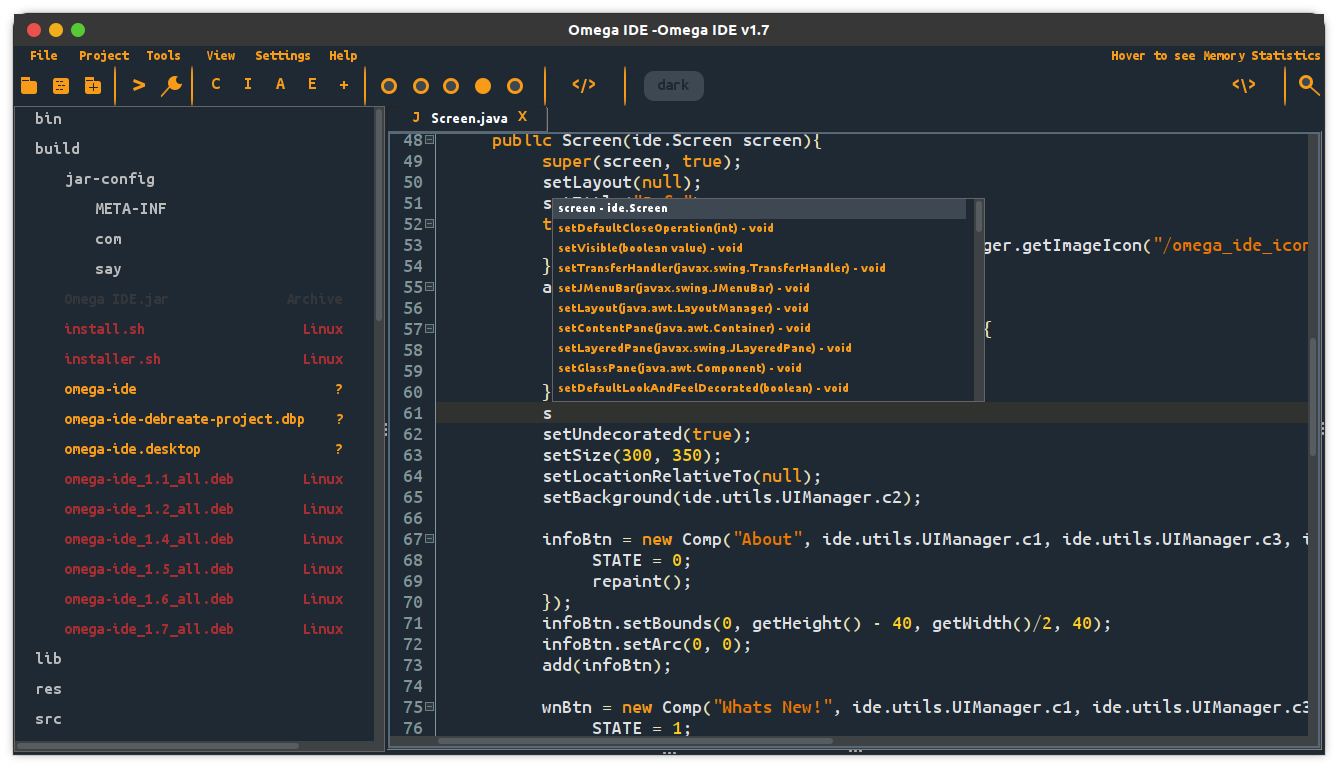
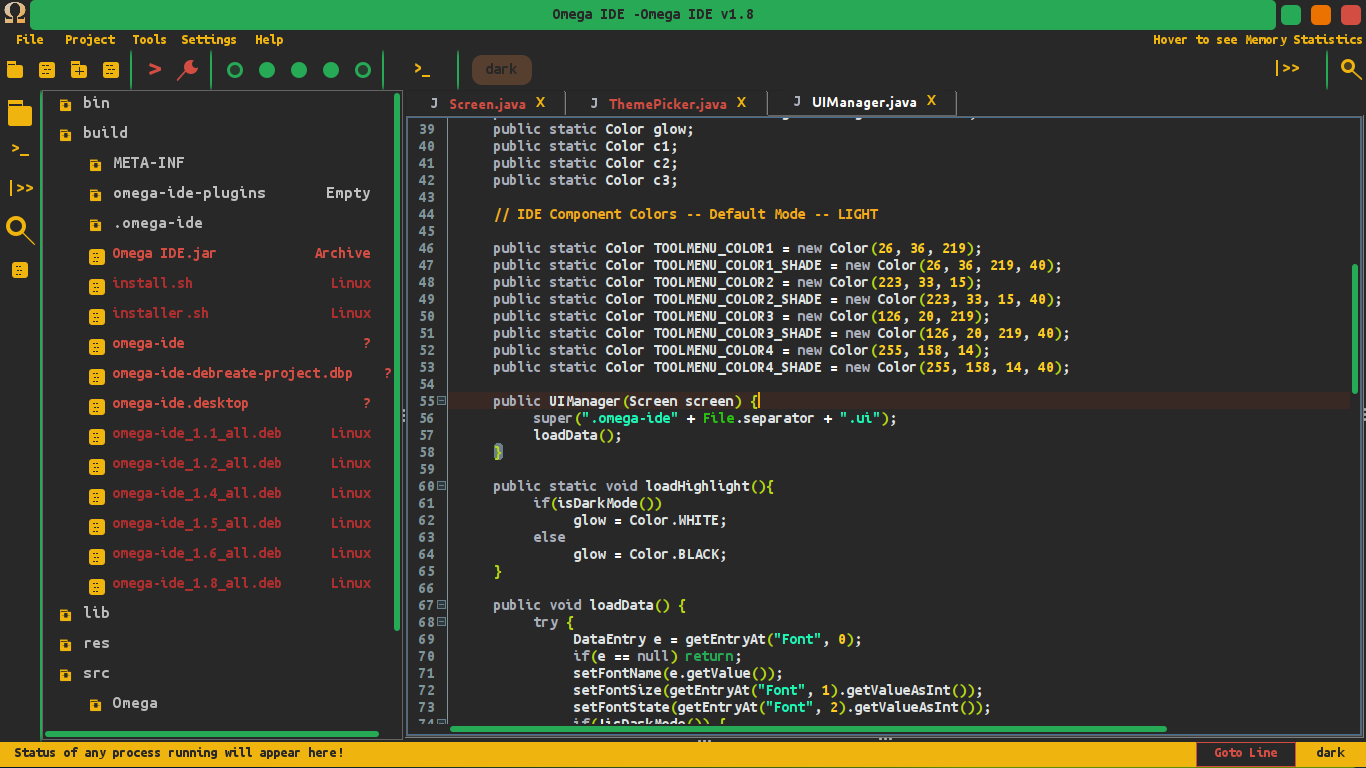
Updated to v1.8

diff --git a/index.md b/index.md
@@ -1,116 +1,284 @@
 # **Omega IDE**
-![](/images/light.png)
-
-Omega IDE is a blazing fast extremely lightweight and a cross-platform java IDE written from scratch.
-
-It is also an instant IDE for other programming languages.
-
-All the Binaries of Omega IDE are compiled with GraalVM (the fastest JVM).
-
-JDK 11 or above is required to run Omega IDE anywhere.
-
-It uses the FlatL&F to provide a familier UX for programmers coming from IntelliJ or Eclipse IDE.
-
-It has its own set of custom components from the buttons to popup menus.
-
-It is recommended to learn how to use Omega IDE properly from [Youtube](https://www.youtube.com/channel/UCpuQLV8MfuHaWHYSq-PRFXg) else you may get stucked.
-
-It has a variety of features :
-
-**An Instant IDE**
-
-![](/images/instant-mode.png)
-
-You can program not only in Java but also in other programming languages.
-
-Using the Universal Feature of Omega IDE.
-
-See the Tutorial Videos on the [Youtube](https://www.youtube.com/channel/UCpuQLV8MfuHaWHYSq-PRFXg) to learn how.
-
-**Content-Assist**
-
-The Content Assist has two modes : Java and Tokenizer.
-
-The Java mode will give you code suggestion by disassembling the codes.
-
-The Tokenizer mode will give you code suggestion on the basis of what words or tokens the editor contains.
-
-![](/images/content_assist.png)
-
-**Snippet Management**
-
-![](/images/snippet_manager.png)
-
-**Getter/Setter(s)**
-
-![](/images/getter-setter.png)
-
-**Override/Implement**
-
-![](/images/override-impl.png)
-
-**Classpath Management**
-
-![](/images/classpath.png)
-
-**Modulepath Management**
-
-![](/images/modulepath.png)
-
-**Terminal Inside**
-
-![](/images/shell.png)
-
-**Stucture View**
-
-![](/images/structure-view.png)
-
-**Workspaces**
-
-![](/images/workspace.png)
-
-**Plugin System**
-
-![](/images/plugin-manager.png)
-
-**Theming Modes (light and dark)**
 
 ![](/images/light.png)
 
 ![](/images/dark.png)
 
 
-**It has its own Plugin System API**(visit https://www.github.com/omegaui/omegaide-plugins to create your own).
+⏩ Omega IDE is a blazing fast Java IDE promising performance even on minimal resource environment 
+with a least available RAM of 210 MB. 
 
-It has a beautiful text editor (thanks to **rsyntaxtextarea**).
+Here is a proof, 
 
-![](/images/about_section.png)
+OS - Deepin Linux
 
-There are lot more features to explore. Give it a try.
+RAM - 2GB
 
-## Installing
+Storage - 320 GB
 
-Dependency : JDK 11 or above
+GPU - Intel Integrated
 
-Well, Omega IDE is a portable application.
+CPU - Intel Pentium Duo 2 cores 2 logical processors 2 x 2.20 GHz
 
-No matter where you run the **Omega IDE.jar** file, it will setup itself completely.
+![](/images/p1.png)
 
-For installation on any platform run **Omega IDE.jar (download from the release section)**
-
-For debian, there is a installer included in the release section.
-
-## Editing
-
-For Editing the source codes you can use even Omega IDE,
-
-Just clone this repository and open the folder **omegaide** as the project root.
-
-Setup the **res** directory as the resource root and the **jfontchooser-vX.jar** and **flatlaf-vX.jar** as the jar dependencies.
+![](/images/p2.png)
 
 
-Thats all.
+Omega IDE when editing its own source code uses at most 150 MB of RAM (only when used extensively) 
+so you can imagine how good it is for small projects 🤩.
+
+Omega IDE has a very small download size.
+
+It has a beautiful text editor with code folding (thanks to rsyntaxtextarea).
+
+Omega IDE can also be used as a **Instant IDE for any** other **programming language** as well.
+
+It tries to reassemble a material look so that it is easy to adapt the customized UI.
+
+It has a elegant UI filled with custom components(have a look at sources at src/omega/comp).
+
+**The component library of Omega IDE is independent of any other IDE component**
+
+**As a result You can use this component library under the terms of GNU GPL v3**
+
+Want to have a look before giving a try?
+
+See whats new in the latest release on the official channel!
+
+[![](/images/youtube-icon.png)](https://www.youtube.com/channel/UCpuQLV8MfuHaWHYSq-PRFXg)
 
 
-## Hope You Liked it
+
+# Installing
+
+Dependency **JDK 16** or above
+
+Just download the **Omega IDE.jar** file (or .deb installer if you are on debian) from the release section and run.
+
+# Please Read -- For Java Projects Only
+
+After opening a project which was not created with Omega IDE don't forget to select the JDK from Preferences first else the tools may not work as expected.
+
+![](/images/java-settings.png)
+
+All the algorithms of Omega IDE rely on Java Conventions.
+
+As a result the IDE will not work as intended if you miss so.
+
+You cannot create a class without a package, this means that using default packages
+
+is prohibited in Omega IDE.
+
+Also when creating a source file you have specify the full-qualified name.
+
+Like this,
+
+![](/images/file-wizard.png)
+
+
+# Creating a Project
+
+On a fresh install, the IDE will ask you to point to a directory to be used as a workspace.
+
+Then, you will be greeted with a launcher window.
+
+There are separate project wizard for Java and Non-Java Projects.
+
+![](/images/launcher.png)
+
+## Java
+
+From there click **New Project** with tag *Project*, now a project wizard will appear.
+
+You should see a look like this.
+
+![](/images/java-wizard.png)
+
+Now Enter the project name.
+
+The colon near the top most field is a component containing the path of workspace directory.
+
+You can change it whenever you want.
+
+
+Now below the project name field you will see a non-editable field
+
+with text "Choose Java Development Kit", just right next to this field you will see a colon component again.
+
+Click that component and it will ask you to specify a directory containing the JVMs
+
+so that the IDE can identify which JDKs are available.
+
+On Linux, the path is usually **/usr/lib/jvm**
+
+On Windows, the path is usually like **C:\Program Files\Java** or **C:\Program Files(x86)\Java** based on the architecture.
+
+Just type in the right path in the file chooser dialog or navigate to the directory if you dont know!
+
+After this the wizard will ask to select the available JDKs, select One.
+
+
+Now you will a text area below labeled as **Source Files**.
+
+It serves a major role when you want you have multiple source files to create or just want to use it.
+
+What it actually does is that it creates the source files specified as soon as the project wizard prepares the project.
+
+write there,
+
+```
+main.Tutorial -class
+
+main.Demo -interface
+```
+
+Now leaving the dependency part.
+
+Click create.
+
+Now you can see that your newly created project is ready for editing.
+
+The IDE has created four default directories(listed on the FileTree on left),
+
+and it has also created the two source files Tutorial(class) and Demo(interface),
+
+and they are ready for editing right in the main tab panel.
+
+## Any Programming Language
+
+If already editing a project, click **File** Menu from the Top.
+
+Now Click the **New Project (non-project)**.
+
+If still in the launcher, click **New Project** with tag *Non-Java*.
+
+A simple Project Wizard will appear,
+
+asking you to specify the Project Name and to select workspace if needed.
+
+![](/images/non-java-wizard.png)
+
+But Here, this project wizard works different.
+
+You see a text area below the project name field.
+
+That text area is demanding directory names separated by a new line character.
+
+For example: 
+
+Specify the project name as Demo Python Project
+
+In the text area write
+
+```
+src
+docs
+lib
+```
+On Clicking **Create**, you will see your project ready and opened in the IDE.
+
+# Setting Up a Project
+
+## Java
+
+For Java Type Projects, there is a combined management tool for managing class-path & module-path.
+
+You can open it by clicking the **Project** Menu and by clicking **Manage Class-path** or **Manage Module-path**.
+
+![](/images/dependency-manager.png)
+
+
+## Any Programming Language
+
+Ok! Speaking Straightforward, there is no gui tool to manage dependencies for other programming languages.
+
+But wait, you can set this up by yourself from the settings window.
+
+There is a different Settings Window for Non-Java Projects.
+
+Just Open Preferences, there you will see two fields labelled compile-time and run-time.
+
+![](/images/non-java-settings.png)
+
+Fill in the compile-time and the run-time command(s) and don't forget to select the working directory.
+
+*If there is no compile-time argument in your project then you can leave the compile-time field empty*
+
+There is one more field component below.
+
+This component can be used to make a list of paths of source files before compilation.
+
+Like the one we need in compiling a groovy project.
+
+The first field is asking the extension of the file and the second one is asking the file name in which the paths will be written.
+
+The **"** component is for surrounding the paths within double-quotes if you want.
+
+Don't forget to Click Apply else you will lose changes.
+
+# Running a Project
+
+If any editor is opened, then by hitting CTRL + SHIFT + R launches the Project.
+
+Else click the Red Colored Run button in the ToolMenu.
+
+Right Clicking the Run Button launches the Project without Build.
+
+# Contributing
+
+Well, I recommend using Omega IDE for editing its own sources for a smoother experience.
+
+The **lib** folder contains the class-path dependenies.
+
+The **res** is the resource-root.
+
+# Note
+
+Omega IDE is not yet totally evolved which means it has no support for any version control system yet and bugs are likely to come.
+
+# Small Gallery
+
+![](/images/g1.png)
+![](/images/g2.png)
+![](/images/g3.png)
+![](/images/g4.png)
+![](/images/g5.png)
+![](/images/g6.png)
+![](/images/g7.png)
+
+
+# Hope You Like It
 instagram @i_am_arham_92
+
+Want to Donate for the Project?
+
+**Google Pay** : UPI ID 1 -> **arhamfar22@okaxis**
+
+**Google Pay** : UPI ID 1 -> **arhamfar22@okicici**
+
+**QR Code**
+
+![](/images/qr_code.jpg)
+
+
+
+
+
+
+
+
+
+
+
+
+
+
+
+
+
+
+
+
+
+
